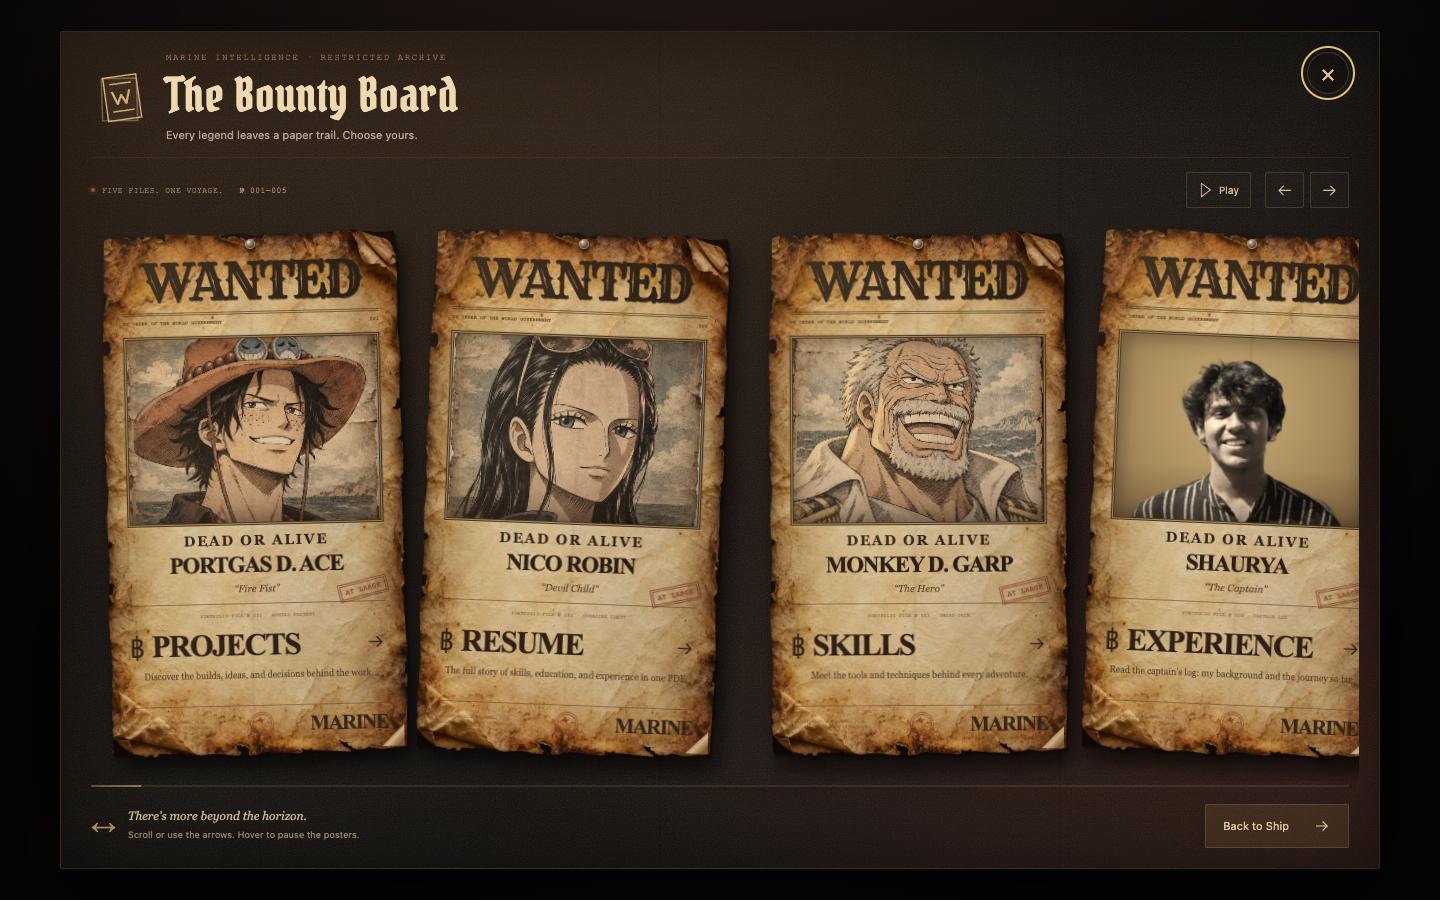
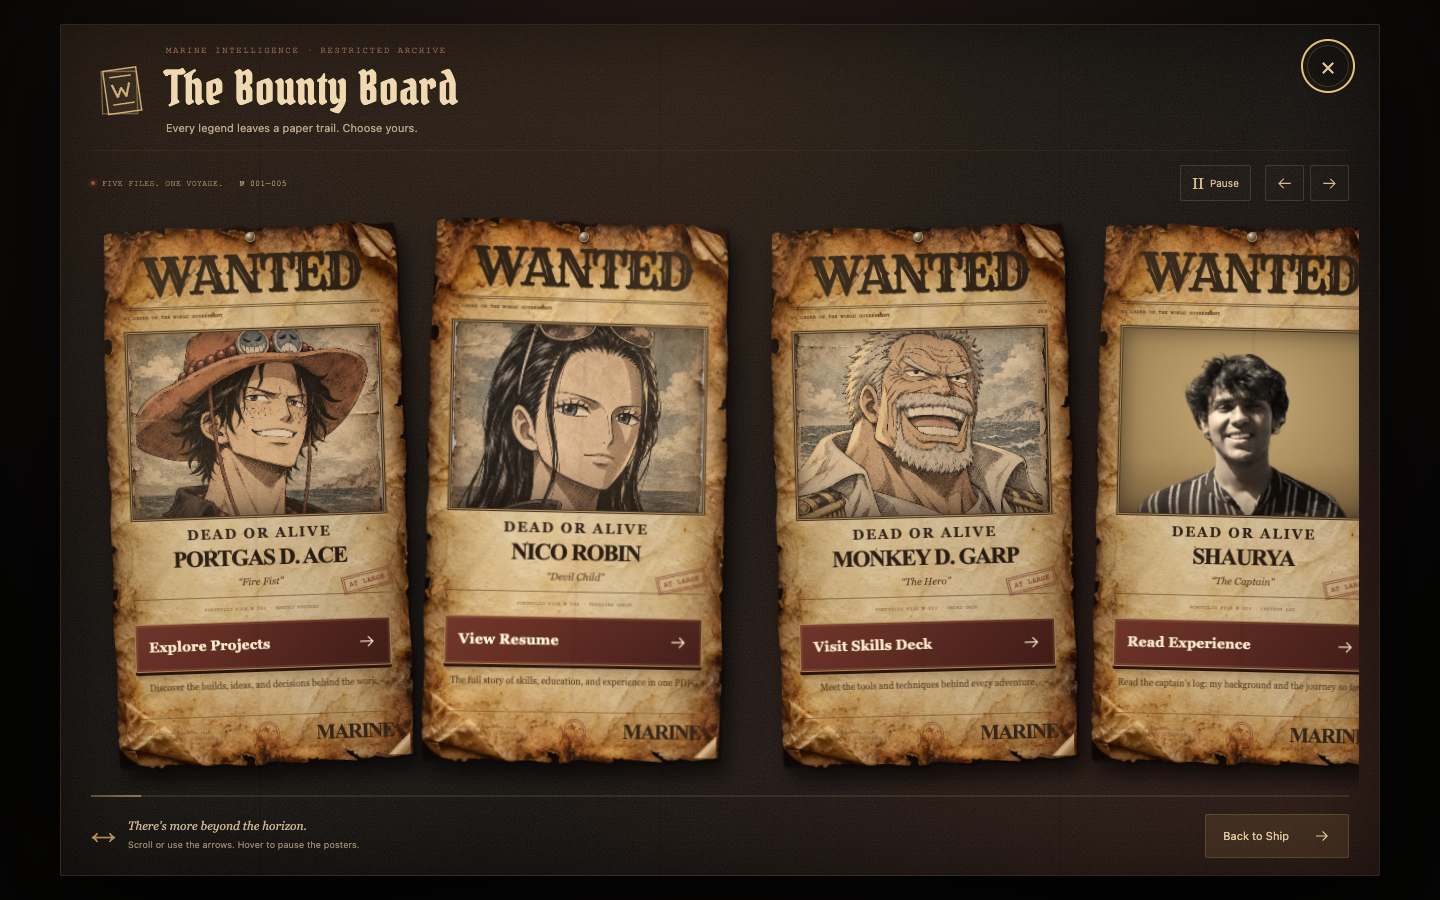
posters improved

diff --git a/src/components/GrandLineMap.css b/src/components/GrandLineMap.css
@@ -163,11 +163,11 @@
 .grand-map__object { display: block; color: #634325; font: 5px/1.3 'Courier New', monospace; letter-spacing: .02em; text-transform: uppercase; text-align: center; }
 .bounty-poster__sr-only { position: absolute; width: 1px; height: 1px; padding: 0; margin: -1px; overflow: hidden; clip-path: inset(50%); white-space: nowrap; }
 .bounty-poster__clue { flex: 1; min-height: 28px; margin: 2px 0 0; color: #543a23; font: 9px/1.5 Georgia, serif; text-align: center; }
-.bounty-poster__action { position: relative; display: flex; align-items: center; justify-content: center; gap: 7px; width: 100%; min-height: 48px; padding: 5px 0 2px; border: 0; border-radius: 0; background: transparent; color: #2e2015; font: 900 31px/1 'Times New Roman', Georgia, serif; text-transform: uppercase; letter-spacing: -.055em; cursor: pointer; transition: color .2s ease; }
-.bounty-poster__currency { flex: 0 0 auto; padding-right: 2px; font: 24px Georgia, serif; }
-.bounty-poster__action svg { width: 21px; height: 21px; flex: 0 0 auto; margin-left: auto; transition: transform .2s ease; }
-.bounty-poster__action > span:nth-child(2) { flex: 1; text-align: left; }
-.bounty-poster__action:hover { color: #70281d; }
+.bounty-poster__action { position: relative; display: flex; align-items: center; justify-content: space-between; gap: 10px; width: 100%; min-height: 48px; margin: 9px 0 8px; padding: 11px 13px; border: 1px solid #b38653; border-radius: 2px; background: linear-gradient(135deg, #71352a, #431d18); color: #fff0d0; font: 700 14px/1.25 Georgia, serif; letter-spacing: .01em; cursor: pointer; box-shadow: inset 0 0 0 2px #d4aa6d24, 0 3px 0 #29150f, 0 6px 9px #29150f40; transition: background .2s ease, border-color .2s ease, box-shadow .2s ease, transform .2s ease; }
+.bounty-poster__action svg { width: 20px; height: 20px; flex: 0 0 auto; transition: transform .2s ease; }
+.bounty-poster__action > span { flex: 1; text-align: left; }
+.bounty-poster__action:hover { background: linear-gradient(135deg, #8a4331, #5e2820); border-color: #e6bf80; transform: translateY(-2px); box-shadow: inset 0 0 0 2px #e7c28a33, 0 5px 0 #29150f, 0 8px 12px #29150f4d; }
+.bounty-poster__action:active { transform: translateY(2px); box-shadow: inset 0 0 0 2px #d4aa6d24, 0 1px 0 #29150f; }
 .bounty-poster__action:hover svg { transform: translateX(3px); }
 .bounty-poster__footnote { display: flex; align-items: center; justify-content: space-between; gap: 6px; margin-top: 10px; padding-top: 7px; border-top: 1px solid #60411f80; color: #5d3f25; font: 4px/1.5 'Courier New', monospace; letter-spacing: 0; }
 .bounty-poster__footnote > strong { color: #352619; font: 900 21px/1 'Times New Roman', Georgia, serif; letter-spacing: -.075em; }
@@ -235,7 +235,7 @@
   .bounty-poster__paper { min-height: 537px; padding-inline: 20px; }
   .bounty-poster__character { font-size: 20px; }
   .bounty-poster__verdict { font-size: 13px; }
-  .bounty-poster__action { font-size: 27px; }
+  .bounty-poster__action { font-size: 14px; }
   .grand-map__footer { align-items: flex-start; gap: 14px; flex-wrap: wrap; }
   .grand-map__scroll-hint { gap: 9px; }
   .grand-map__scroll-hint strong { font-size: 11px; }
@@ -270,5 +270,6 @@
   .bounty-poster__paper { transition: none; }
   .bounty-poster__action, .bounty-poster__action svg { transition: none; }
   .bounty-poster__action:hover svg { transform: none; }
+  .bounty-poster__action:hover, .bounty-poster__action:active { transform: none; }
   .grand-map__route:hover .bounty-poster__paper, .grand-map__route:focus-within .bounty-poster__paper { transform: none; }
 }

diff --git a/src/data/bountyBoard.js b/src/data/bountyBoard.js
@@ -5,8 +5,8 @@ export const BOUNTY_PAPER_TEXTURE = '/textures/bounty-parchment.webp'
 
 export const BOUNTY_ROUTES = [
   { key: 'projects', destination: 'Projects', object: 'Wanted Posters', character: 'Portgas D. Ace', epithet: 'Fire Fist', image: '/characters/bounty/ace.webp', clue: 'Discover the builds, ideas, and decisions behind the work.', action: 'Explore Projects', tilt: '-2deg' },
-  { key: 'resume', destination: 'Resume', object: 'Treasure Chest', character: 'Nico Robin', epithet: 'Devil Child', image: '/characters/bounty/robin.webp', clue: 'The full story of skills, education, and experience in one PDF.', action: 'Unlock Resume', tilt: '1.5deg' },
+  { key: 'resume', destination: 'Resume', object: 'Treasure Chest', character: 'Nico Robin', epithet: 'Devil Child', image: '/characters/bounty/robin.webp', clue: 'The full story of skills, education, and experience in one PDF.', action: 'View Resume', tilt: '1.5deg' },
   { key: 'skills', destination: 'Skills', object: 'Sword Deck', character: 'Monkey D. Garp', epithet: 'The Hero', image: '/characters/bounty/garp.webp', clue: 'Meet the tools and techniques behind every adventure.', action: 'Visit Skills Deck', tilt: '-1deg' },
-  { key: 'experience', destination: 'Experience', object: 'Captain Log', character: PROFILE.shortName, epithet: 'The Captain', image: '/characters/captain.webp', clue: 'Read the captain’s log: my background and the journey so far.', action: 'Read My Story', tilt: '2deg' },
-  { key: 'contact', destination: 'Contact', object: 'Den Den Mushi', character: 'Rocks D. Xebec', epithet: 'Rocks Pirates', image: '/characters/bounty/rocks.webp', clue: 'Have an idea or an opportunity? Send a signal my way.', action: 'Get in Touch', tilt: '-1.5deg' },
+  { key: 'experience', destination: 'Experience', object: 'Captain Log', character: PROFILE.shortName, epithet: 'The Captain', image: '/characters/captain.webp', clue: 'Read the captain’s log: my background and the journey so far.', action: 'Read Experience', tilt: '2deg' },
+  { key: 'contact', destination: 'Contact', object: 'Den Den Mushi', character: 'Rocks D. Xebec', epithet: 'Rocks Pirates', image: '/characters/bounty/rocks.webp', clue: 'Have an idea or an opportunity? Send a signal my way.', action: 'Contact Me', tilt: '-1.5deg' },
 ]

diff --git a/src/components/GrandLineMap.jsx b/src/components/GrandLineMap.jsx
@@ -157,7 +157,7 @@ function BountyBoard({ onClose, onRoute }) {
               <div className="bounty-poster__destination">
                 <span className="grand-map__object">PORTFOLIO FILE № 00{index + 1} · {route.object}</span>
                 <h3 className="bounty-poster__sr-only">{route.destination}</h3>
-                <button type="button" className="bounty-poster__action" onClick={() => onRoute(route.key)} aria-label={`${route.destination}: ${route.action}`} aria-describedby={`bounty-clue-${route.key}`}><span className="bounty-poster__currency" aria-hidden="true">฿</span><span>{route.destination}</span><Arrow /></button>
+                <button type="button" className="bounty-poster__action" onClick={() => onRoute(route.key)} aria-label={`${route.destination}: ${route.action}`} aria-describedby={`bounty-clue-${route.key}`}><span>{route.action}</span><Arrow /></button>
                 <p id={`bounty-clue-${route.key}`} className="bounty-poster__clue">{route.clue}</p>
               </div>
               <div className="bounty-poster__footnote"><span>ANY INFORMATION REGARDING THIS<br />PERSON’S WHEREABOUTS IS REQUESTED.</span><span className="bounty-poster__stamp">✦<small>ISSUED</small></span><strong>MARINE</strong></div>
